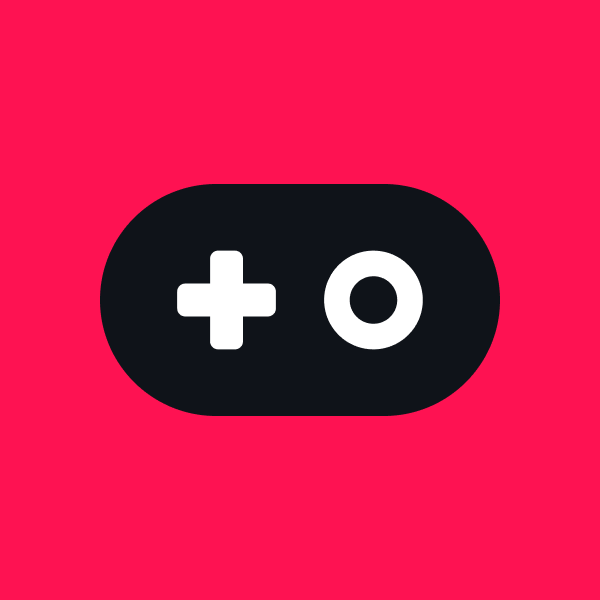
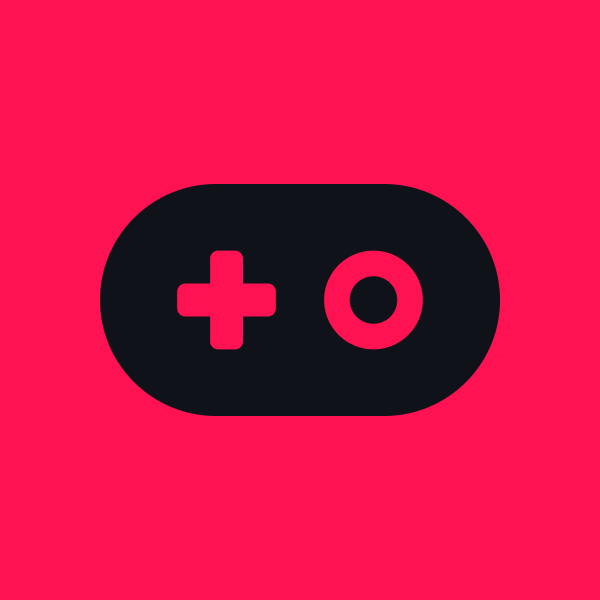
Auth fix, lists overflow fix

Changed region(s): [[0.54, 0.42, 0.72, 0.6], [0.27, 0.39, 0.48, 0.6]]

diff --git a/src/lib/atproto.ts b/src/lib/atproto.ts
@@ -20,7 +20,7 @@ export async function getOAuthClient(): Promise<BrowserOAuthClient> {
       client_name: 'postgame',
       client_uri: origin,
       redirect_uris: [`${origin}/oauth/callback`],
-      scope: 'atproto blob:image/*',
+      scope: 'atproto blob:image/* repo:at.postgame.game?action=create repo:at.postgame.game?action=update repo:at.postgame.game?action=delete repo:at.postgame.list?action=create repo:at.postgame.list?action=update repo:at.postgame.list?action=delete repo:at.postgame.follow?action=create repo:at.postgame.follow?action=update repo:at.postgame.follow?action=delete repo:at.postgame.settings?action=create repo:at.postgame.settings?action=update repo:at.postgame.settings?action=delete',
       grant_types: ['authorization_code', 'refresh_token'],
       response_types: ['code'],
       token_endpoint_auth_method: 'none',
@@ -121,38 +121,51 @@ async function migrateUserData(agent: Agent, did: string): Promise<void> {
     settings: 'com.crashthearcade.settings',
   } as const
 
-  try {
-    // Migrate paginated collections (game, list, follow)
-    for (const [key, oldColl] of [
-      ['game', OLD_COLLECTIONS.game],
-      ['list', OLD_COLLECTIONS.list],
-      ['follow', OLD_COLLECTIONS.follow],
-    ] as const) {
-      const newColl = key === 'game' ? COLLECTION : key === 'list' ? LIST_COLLECTION : FOLLOW_COLLECTION
-      let cursor: string | undefined
-      do {
-        const res = await agent.com.atproto.repo.listRecords({ repo: did, collection: oldColl, limit: 100, cursor })
-        if (!res.success || res.data.records.length === 0) break
-        for (const rec of res.data.records) {
-          const rkey = rec.uri.split('/').pop()!
+  let migrationOk = true
+
+  // Migrate paginated collections (game, list, follow)
+  for (const [collKey, oldColl] of [
+    ['game', OLD_COLLECTIONS.game],
+    ['list', OLD_COLLECTIONS.list],
+    ['follow', OLD_COLLECTIONS.follow],
+  ] as const) {
+    const newColl = collKey === 'game' ? COLLECTION : collKey === 'list' ? LIST_COLLECTION : FOLLOW_COLLECTION
+    let cursor: string | undefined
+    do {
+      let res
+      try {
+        res = await agent.com.atproto.repo.listRecords({ repo: did, collection: oldColl, limit: 100, cursor })
+      } catch { break }
+      if (!res.success || res.data.records.length === 0) break
+      for (const rec of res.data.records) {
+        const rkey = rec.uri.split('/').pop()!
+        try {
           await agent.com.atproto.repo.putRecord({ repo: did, collection: newColl, rkey, record: { ...(rec.value as object), $type: newColl } })
           await agent.com.atproto.repo.deleteRecord({ repo: did, collection: oldColl, rkey })
+        } catch (e) {
+          console.error('[postgame] migration record failed:', e)
+          migrationOk = false
         }
-        cursor = res.data.records.length === 100 ? res.data.cursor : undefined
-      } while (cursor)
-    }
-
-    // Migrate settings (single record keyed by literal:self)
-    try {
-      const res = await agent.com.atproto.repo.getRecord({ repo: did, collection: OLD_COLLECTIONS.settings, rkey: 'self' })
-      if (res.success) {
-        await agent.com.atproto.repo.putRecord({ repo: did, collection: SETTINGS_COLLECTION, rkey: 'self', record: { ...(res.data.value as object), $type: SETTINGS_COLLECTION } })
-        await agent.com.atproto.repo.deleteRecord({ repo: did, collection: OLD_COLLECTIONS.settings, rkey: 'self' })
       }
-    } catch { /* no settings record, skip */ }
-
-    if (typeof localStorage !== 'undefined') localStorage.setItem(key, '1')
-  } catch (e) {
-    console.error('[postgame] migration failed:', e)
+      cursor = res.data.records.length === 100 ? res.data.cursor : undefined
+    } while (cursor)
   }
+
+  // Migrate settings (single record keyed by literal:self)
+  try {
+    const res = await agent.com.atproto.repo.getRecord({ repo: did, collection: OLD_COLLECTIONS.settings, rkey: 'self' })
+    if (res.success) {
+      await agent.com.atproto.repo.putRecord({ repo: did, collection: SETTINGS_COLLECTION, rkey: 'self', record: { ...(res.data.value as object), $type: SETTINGS_COLLECTION } })
+      await agent.com.atproto.repo.deleteRecord({ repo: did, collection: OLD_COLLECTIONS.settings, rkey: 'self' })
+    }
+  } catch (e) {
+    const msg = e instanceof Error ? e.message : String(e)
+    // Missing settings record is normal; anything else is a real failure
+    if (!msg.includes('RecordNotFound') && !msg.includes('not found')) {
+      console.error('[postgame] settings migration failed:', e)
+      migrationOk = false
+    }
+  }
+
+  if (migrationOk && typeof localStorage !== 'undefined') localStorage.setItem(key, '1')
 }

diff --git a/src/app/lists/page.tsx b/src/app/lists/page.tsx
@@ -5,6 +5,7 @@ import { Agent } from '@atproto/api'
 import { TID } from '@atproto/common-web'
 import { restoreSession, LIST_COLLECTION } from '@/lib/atproto'
 import { ListRecord, ListRecordView } from '@/types'
+import { bskyAvatar } from '@/lib/appview-fetch'
 import ListShareModal from '@/components/ListShareModal'
 
 export interface CommunityList {
@@ -38,6 +39,7 @@ export default function MyListsPage() {
   const [openMenuRkey, setOpenMenuRkey] = useState<string | null>(null)
   const [menuPos, setMenuPos] = useState<{ top: number; right: number } | null>(null)
   const menuRefs = useRef<Record<string, HTMLDivElement | null>>({})
+  const menuDropdownRef = useRef<HTMLDivElement | null>(null)
 
   useEffect(() => {
     restoreSession()
@@ -84,8 +86,11 @@ export default function MyListsPage() {
   useEffect(() => {
     if (!openMenuRkey) return
     function handleOutside(e: MouseEvent) {
-      const el = menuRefs.current[openMenuRkey!]
-      if (el && !el.contains(e.target as Node)) { setOpenMenuRkey(null); setMenuPos(null) }
+      const triggerEl = menuRefs.current[openMenuRkey!]
+      const dropdownEl = menuDropdownRef.current
+      if (triggerEl?.contains(e.target as Node) || dropdownEl?.contains(e.target as Node)) return
+      setOpenMenuRkey(null)
+      setMenuPos(null)
     }
     document.addEventListener('mousedown', handleOutside)
     return () => document.removeEventListener('mousedown', handleOutside)
@@ -217,7 +222,7 @@ export default function MyListsPage() {
                             onClick={(e) => e.stopPropagation()}
                           >
                             <button
-                              className="list-overflow-btn"
+                              className="btn btn-ghost list-overflow-btn"
                               onClick={(e) => {
                                 if (openMenuRkey === rkey) { setOpenMenuRkey(null); setMenuPos(null); return }
                                 const rect = e.currentTarget.getBoundingClientRect()
@@ -304,7 +309,7 @@ export default function MyListsPage() {
                           onClick={(e) => { e.stopPropagation(); window.location.href = `/${list.user.handle}` }}
                         >
                           {list.user.avatar ? (
-                            <img src={list.user.avatar} alt="" style={{ width: '16px', height: '16px', borderRadius: '50%', objectFit: 'cover' }} />
+                            <img src={bskyAvatar(list.user.avatar)} alt="" style={{ width: '16px', height: '16px', borderRadius: '50%', objectFit: 'cover' }} />
                           ) : (
                             <div style={{ width: '16px', height: '16px', borderRadius: '50%', background: 'var(--tertiary)' }} />
                           )}
@@ -325,6 +330,7 @@ export default function MyListsPage() {
       {/* Card overflow menu — rendered outside the card to escape overflow:hidden */}
       {openMenuRkey && menuPos && (
         <div
+          ref={menuDropdownRef}
           className="list-overflow-menu"
           style={{ position: 'fixed', top: menuPos.top, right: menuPos.right, zIndex: 1000 }}
         >

diff --git a/src/app/[handle]/page.tsx b/src/app/[handle]/page.tsx
@@ -10,7 +10,7 @@ import { statusLabel, matchesStatus, PRIMARY_STATUSES } from '@/lib/igdb'
 import GameCard from '@/components/GameCard'
 import ParallaxBannerImg from '@/components/ParallaxBannerImg'
 import { Stars } from '@/components/Stars'
-import { extractCid, blobUrl, resolvePds } from '@/lib/appview-fetch'
+import { extractCid, blobUrl, resolvePds, bskyAvatar } from '@/lib/appview-fetch'
 import { relativeTime } from '@/lib/feed'
 
 const ALL_STATUSES = PRIMARY_STATUSES
@@ -307,9 +307,10 @@ export default function ProfilePage() {
           }
         }
 
-        // 2. Fetch documents
+        // 2. Fetch documents (cap at 20 pages / ~2000 posts)
         let posts: any[] = []
         let cursor: string | undefined
+        let page = 0
         do {
           const url = `${profilePdsUrl}/xrpc/com.atproto.repo.listRecords?repo=${encodeURIComponent(profileDid!)}&collection=site.standard.document&limit=100${cursor ? `&cursor=${encodeURIComponent(cursor)}` : ''}`
           const res = await fetch(url)
@@ -317,7 +318,8 @@ export default function ProfilePage() {
           const data = await res.json()
           posts = [...posts, ...(data.records ?? [])]
           cursor = data.cursor
-        } while (cursor)
+          page++
+        } while (cursor && page < 20)
 
         if (cancelled) return
 
@@ -791,7 +793,7 @@ export default function ProfilePage() {
                       <div key={f.did} className="game-card-grid" style={{ padding: 16, display: 'flex', flexDirection: 'column', alignItems: 'center', gap: 10, textAlign: 'center' }}>
                         <a href={`/${f.handle}`} style={{ display: 'block', flexShrink: 0 }}>
                           {f.avatar
-                            ? <img src={f.avatar} alt="" style={{ width: 64, height: 64, borderRadius: '50%', objectFit: 'cover', display: 'block', border: '2px solid var(--border)' }} />
+                            ? <img src={bskyAvatar(f.avatar)} alt="" style={{ width: 64, height: 64, borderRadius: '50%', objectFit: 'cover', display: 'block', border: '2px solid var(--border)' }} />
                             : <div style={{ width: 64, height: 64, borderRadius: '50%', background: 'var(--tertiary)', border: '2px solid var(--border)' }} />
                           }
                         </a>

diff --git a/src/app/globals.css b/src/app/globals.css
@@ -1225,15 +1225,17 @@ main {
 
 /* Overflow menu */
 .list-overflow-wrap {
-  position: relative;
+  position: initial;
+  line-height: 0;
 }
 
 .list-overflow-btn {
   color: var(--text-muted);
-  font-size: var(--text-lg);
-  padding: 9px;
+  font-size: var(--text-sm);
+  padding: 3px;
   line-height: 1;
   letter-spacing: 0em;
+  border: none;
 }
 
 .list-overflow-menu {

diff --git a/src/app/oauth-client-metadata.json/route.ts b/src/app/oauth-client-metadata.json/route.ts
@@ -2,14 +2,18 @@ import { NextResponse } from 'next/server'
 import type { NextRequest } from 'next/server'
 
 export async function GET(req: NextRequest) {
-  const origin = new URL(req.url).origin
+  const forwardedHost = req.headers.get('x-forwarded-host')
+  const forwardedProto = req.headers.get('x-forwarded-proto')
+  const host = forwardedHost || req.headers.get('host') || new URL(req.url).host
+  const proto = forwardedProto || new URL(req.url).protocol.replace(':', '')
+  const origin = `${proto}://${host}`
 
   return NextResponse.json({
     client_id: `${origin}/oauth-client-metadata.json`,
     client_name: 'postgame',
     client_uri: origin,
     redirect_uris: [`${origin}/oauth/callback`],
-    scope: 'atproto blob:image/*',
+    scope: 'atproto blob:image/* repo:at.postgame.game?action=create repo:at.postgame.game?action=update repo:at.postgame.game?action=delete repo:at.postgame.list?action=create repo:at.postgame.list?action=update repo:at.postgame.list?action=delete repo:at.postgame.follow?action=create repo:at.postgame.follow?action=update repo:at.postgame.follow?action=delete repo:at.postgame.settings?action=create repo:at.postgame.settings?action=update repo:at.postgame.settings?action=delete',
     grant_types: ['authorization_code', 'refresh_token'],
     response_types: ['code'],
     token_endpoint_auth_method: 'none',

diff --git a/src/app/community/page.tsx b/src/app/community/page.tsx
@@ -7,6 +7,7 @@ import { Stars } from '@/components/Stars'
 import AddGameModal from '@/components/AddGameModal'
 import { relativeTime, feedActionText } from '@/lib/feed'
 import { abbreviatePlatform } from '@/lib/igdb'
+import { bskyAvatar } from '@/lib/appview-fetch'
 
 interface SearchActor {
   did: string
@@ -58,7 +59,7 @@ function FeedList({ items, loading, emptyTitle, emptyBody }: {
             <div className="social-grid-user-top" onClick={() => window.location.href = `/${item.handle}`}>
               <a href={`/${item.handle}`} className="social-grid-avatar-link" onClick={(e) => e.stopPropagation()}>
                 {item.avatar ? (
-                  <img src={item.avatar} alt="" className="social-grid-avatar" />
+                  <img src={bskyAvatar(item.avatar)} alt="" className="social-grid-avatar" />
                 ) : (
                   <div className="social-grid-avatar social-grid-avatar-placeholder" />
                 )}
@@ -172,7 +173,7 @@ export default function SocialPage() {
         setSearchResults(actors)
         setSearchOpen(actors.length > 0)
       } catch {}
-    }, 300)
+    }, 400)
     return () => clearTimeout(timer)
   }, [searchQuery])
 
@@ -277,7 +278,7 @@ export default function SocialPage() {
                     <div key={actor.did} className="search-result-item social-search-result">
                       <a href={`/${actor.handle}`} className="social-search-actor" onClick={() => { setSearchOpen(false); setSearchQuery('') }}>
                         {actor.avatar
-                          ? <img src={actor.avatar} alt="" className="social-search-avatar" />
+                          ? <img src={bskyAvatar(actor.avatar)} alt="" className="social-search-avatar" />
                           : <div className="social-search-avatar social-search-avatar-placeholder" />
                         }
                         <div style={{ overflow: 'hidden' }}>

diff --git a/src/app/page.tsx b/src/app/page.tsx
@@ -2,6 +2,7 @@
 
 import { useEffect, useState, useRef } from 'react'
 import { restoreSession, signIn } from '@/lib/atproto'
+import { bskyAvatar } from '@/lib/appview-fetch'
 import Tooltip from '@/components/Tooltip'
 
 export default function Home() {
@@ -45,7 +46,7 @@ export default function Home() {
       } catch {
         setSuggestions([])
       }
-    }, 300)
+    }, 400)
     return () => clearTimeout(timer)
   }, [handle])
 
@@ -131,7 +132,7 @@ export default function Home() {
                       onMouseDown={(e) => { e.preventDefault(); selectSuggestion(actor.handle) }}
                     >
                       {actor.avatar
-                        ? <img src={actor.avatar} alt="" className="handle-suggestion-avatar" />
+                        ? <img src={bskyAvatar(actor.avatar)} alt="" className="handle-suggestion-avatar" />
                         : <div className="handle-suggestion-avatar handle-suggestion-avatar-placeholder" />
                       }
                       <div>
@@ -154,7 +155,7 @@ export default function Home() {
         <span>•</span>
         <a href="https://bsky.app/profile/postgame.at" target="_blank" rel="noopener noreferrer">Bluesky</a>
         <span>•</span>
-        <a href="https://github.com/mchlhyns/postgame" target="_blank" rel="noopener noreferrer">GitHub</a>
+        <a href="https://github.com/assemblezero/postgame" target="_blank" rel="noopener noreferrer">GitHub</a>
       </p>
     </div>
   )

diff --git a/src/lib/appview-fetch.ts b/src/lib/appview-fetch.ts
@@ -23,6 +23,12 @@ export async function resolvePds(did: string): Promise<string> {
   }
 }
 
+export function bskyAvatar(url: string | null | undefined): string | undefined {
+  if (!url) return undefined
+  if (url.startsWith('https://cdn.bsky.app/') && !url.includes('@')) return `${url}@jpeg`
+  return url
+}
+
 export function extractCid(ref: unknown): string | null {
   if (!ref) return null
   if (typeof (ref as Record<string, unknown>)['$link'] === 'string') return (ref as Record<string, unknown>)['$link'] as string

diff --git a/src/app/api/appview/all-lists/route.ts b/src/app/api/appview/all-lists/route.ts
@@ -69,7 +69,9 @@ export async function GET(req: NextRequest) {
       return bTime.localeCompare(aTime)
     })
 
-    return NextResponse.json({ lists })
+    return NextResponse.json({ lists }, {
+      headers: { 'Cache-Control': 'public, max-age=60, stale-while-revalidate=300' },
+    })
   } catch (err) {
     console.error('All lists feed error:', err)
     return NextResponse.json({ error: 'Failed to fetch community lists' }, { status: 500 })

diff --git a/src/app/api/appview/feed/route.ts b/src/app/api/appview/feed/route.ts
@@ -89,7 +89,9 @@ export async function GET(req: NextRequest) {
       }
     }).filter(r => r.handle && r.handle !== 'handle.invalid' && !r.handle.endsWith('.invalid'))
 
-    return NextResponse.json({ feed, profiles })
+    return NextResponse.json({ feed, profiles }, {
+      headers: { 'Cache-Control': 'private, max-age=30, stale-while-revalidate=120' },
+    })
   } catch (err) {
     console.error('Feed error:', err)
     return NextResponse.json({ error: 'Failed to fetch feed' }, { status: 500 })

diff --git a/src/app/api/appview/network/route.ts b/src/app/api/appview/network/route.ts
@@ -72,7 +72,9 @@ export async function GET(req: NextRequest) {
       }
     }).filter(r => r.handle && r.handle !== 'handle.invalid' && !r.handle.endsWith('.invalid'))
 
-    return NextResponse.json({ feed })
+    return NextResponse.json({ feed }, {
+      headers: { 'Cache-Control': 'public, max-age=60, stale-while-revalidate=300' },
+    })
   } catch (err) {
     console.error('Network feed error:', err)
     return NextResponse.json({ error: 'Failed to fetch network feed' }, { status: 500 })

diff --git a/src/app/home/page.tsx b/src/app/home/page.tsx
@@ -8,7 +8,7 @@ import { matchesStatus, abbreviatePlatform } from '@/lib/igdb'
 import GameCard from '@/components/GameCard'
 import { Stars } from '@/components/Stars'
 import { Sparkles, Trophy } from 'lucide-react'
-import { extractCid } from '@/lib/appview-fetch'
+import { extractCid, bskyAvatar } from '@/lib/appview-fetch'
 import { relativeTime, feedActionText } from '@/lib/feed'
 
 interface FeedItem {
@@ -328,7 +328,7 @@ export default function HomePage() {
                     >
                       <a href={`/${item.handle}`} className="social-grid-avatar-link" onClick={(e) => e.stopPropagation()}>
                         {item.avatar ? (
-                          <img src={item.avatar} alt="" className="social-grid-avatar" />
+                          <img src={bskyAvatar(item.avatar)} alt="" className="social-grid-avatar" />
                         ) : (
                           <div className="social-grid-avatar social-grid-avatar-placeholder" />
                         )}